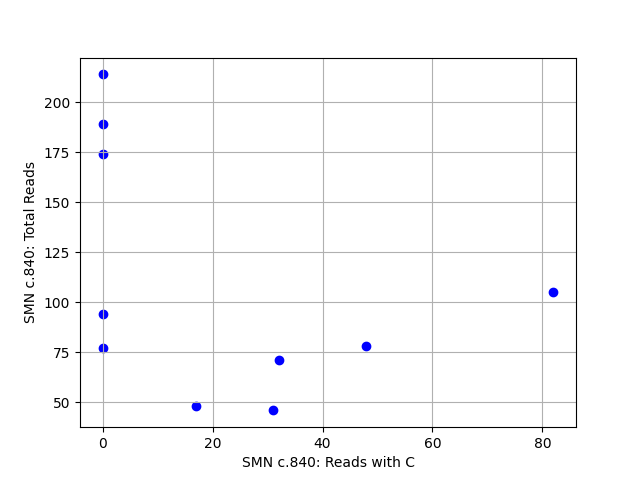
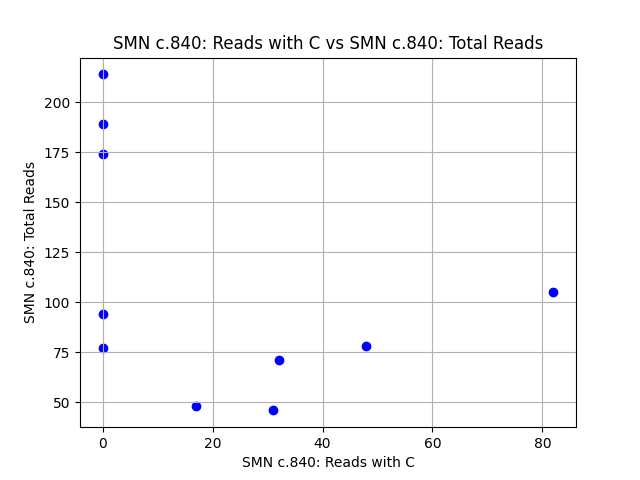
07.18.22 Update with generate_scatterplot.py

Changed region(s): [[0.1562, 0.0625, 0.8438, 0.125]]

diff --git a/smn_analysis.py b/smn_analysis.py
@@ -6,7 +6,6 @@ import argparse
 import os
 import pysam
 import pandas as pd
-import matplotlib.pyplot as plt
 SMN1_C840_POSITION_1BASED = 70951946
 SMN2_C840_POSITION_1BASED = 70076526
 
@@ -87,22 +86,10 @@ def main():
             print(f"{total_reads:15,d} total reads in {cram_path}")
         output_records.append(record)
         cram.close()
-    """
-    scatter plot of the data generated in tsv file
-    """
     df = pd.DataFrame(output_records)
     df.to_csv(args.output_tsv, sep='\t', index=False)
     print("No of cram files: ", len(output_records), " output in", args.output_tsv)
-    df = pd.read_csv("c_count.tsv", sep='\t')
-    SMN_C_count = df['SMN c.840: Reads with C']
-    SMN_total = df['SMN c.840: Total Reads']
-    x = list(SMN_C_count)
-    y = list(SMN_total)
-    plt.scatter(x=x,y=y,color = 'b')
-    plt.grid(True)
-    plt.xlabel('SMN c.840: Reads with C')
-    plt.ylabel('SMN c.840: Total Reads')
-    plt.savefig('C_vs_total.png')
+
 
 if __name__ == "__main__":
     main()

diff --git a/generate_scatterplot.py b/generate_scatterplot.py
@@ -1,0 +1,16 @@
+import pandas as pd
+import matplotlib.pyplot as plt
+"""
+scatter plot of the data generated by smn_analysis.py
+"""
+df = pd.read_csv("c_count.tsv", sep='\t')
+SMN_C_count = df['SMN c.840: Reads with C']
+SMN_total = df['SMN c.840: Total Reads']
+x = list(SMN_C_count)
+y = list(SMN_total)
+plt.scatter(x=x,y=y,color = 'b')
+plt.grid(True)
+plt.xlabel('SMN c.840: Reads with C')
+plt.ylabel('SMN c.840: Total Reads')
+plt.title('SMN c.840: Reads with C vs SMN c.840: Total Reads')
+plt.savefig('C_vs_total.png')
